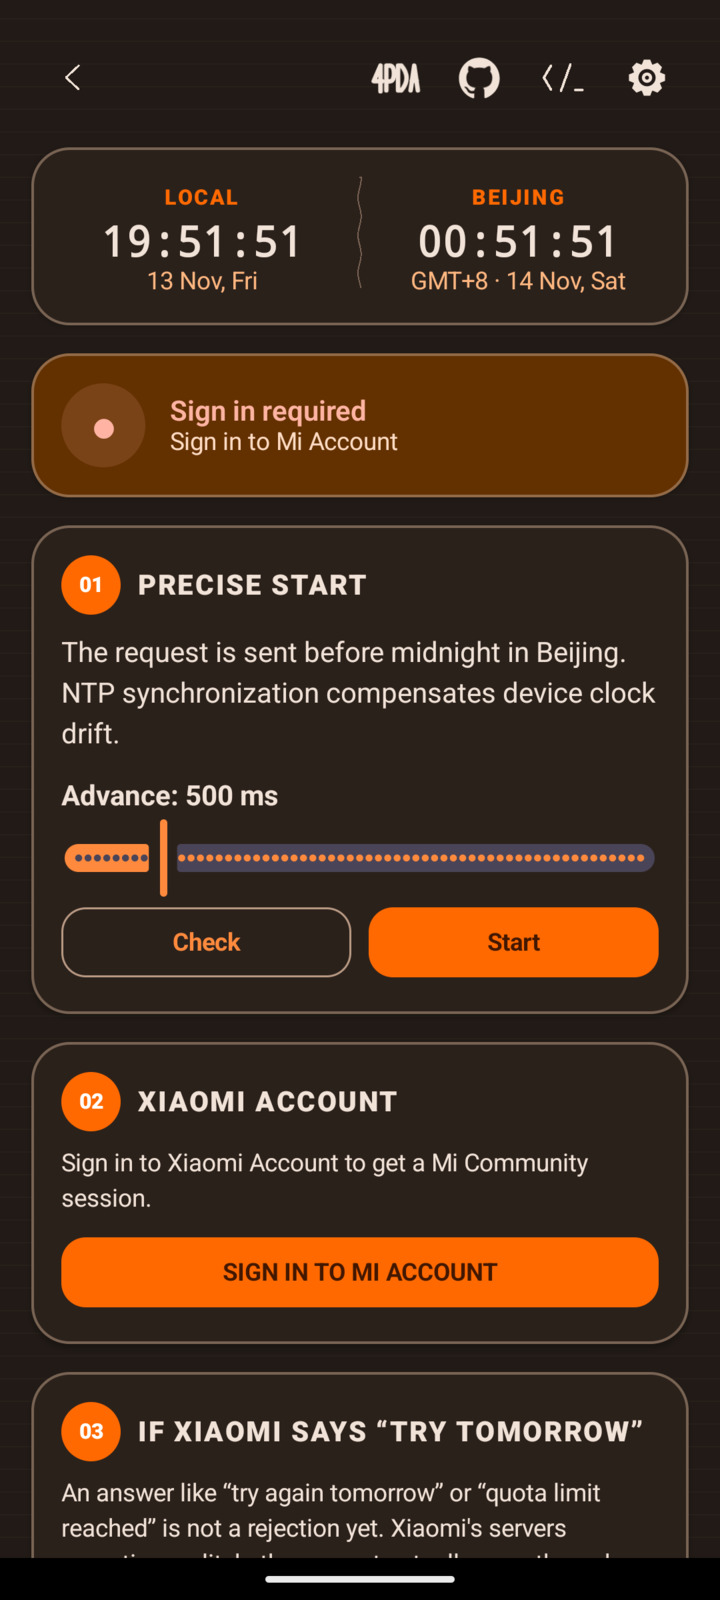
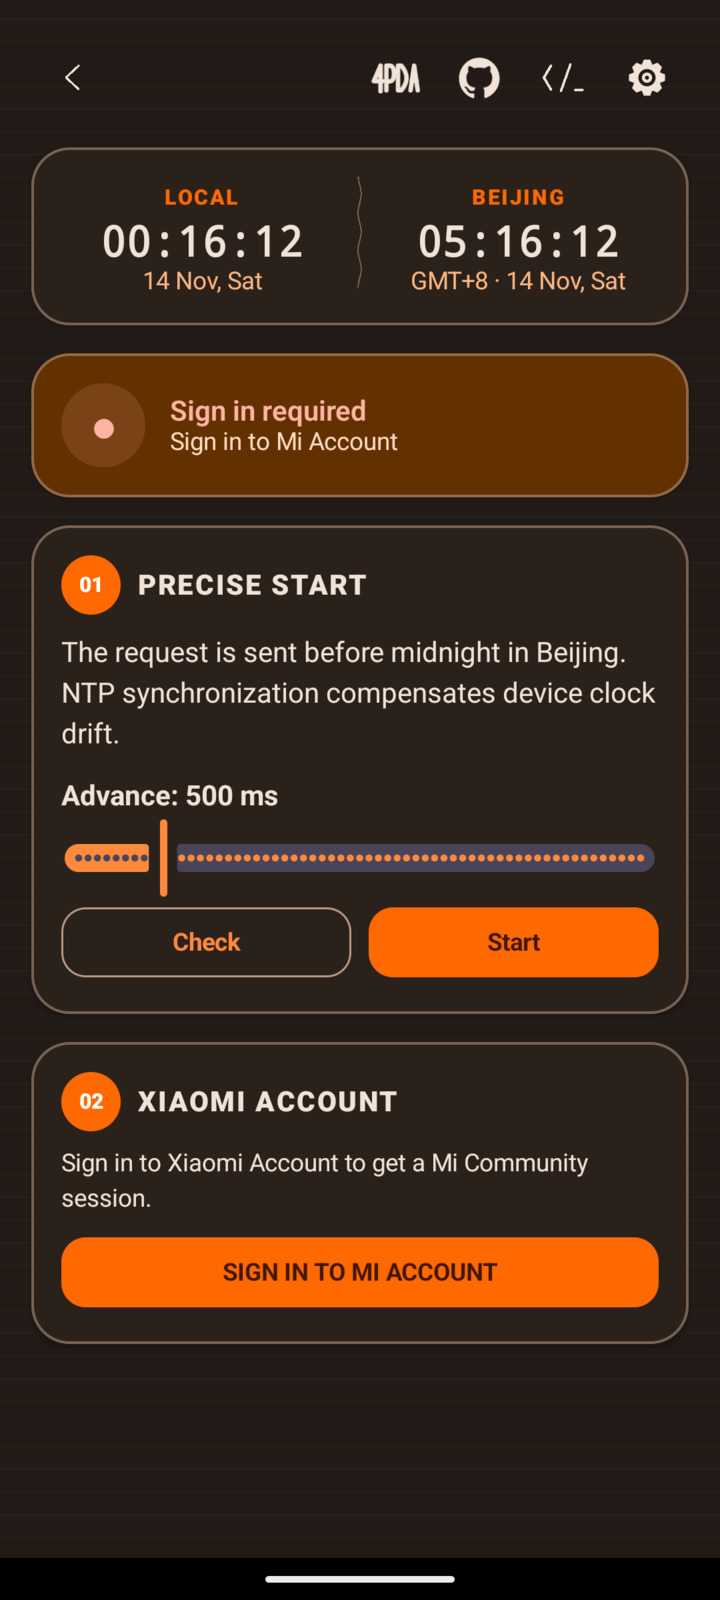
ui: show the 'try tomorrow' note as a dialog with an accept button and a 'do not show again' checkbox instead of a permanent card; versionCode 48

diff --git a/app/src/main/java/com/miunlock/app/ui/ApplyScreen.kt b/app/src/main/java/com/miunlock/app/ui/ApplyScreen.kt
@@ -16,6 +16,9 @@ import androidx.compose.material3.Slider
 import androidx.compose.material3.Button
 import androidx.compose.material3.ButtonDefaults
 import androidx.compose.material3.OutlinedButton
+import androidx.compose.material3.AlertDialog
+import androidx.compose.material3.TextButton
+import androidx.compose.material3.Checkbox
 import androidx.compose.material3.Text
 import androidx.compose.material3.MaterialTheme
 import androidx.compose.foundation.layout.*
@@ -195,9 +198,21 @@ fun MiUnlockScreen(state: AppState, dispatch: (AppIntent) -> Unit, onHome: () ->
                         onLogin = { context.startActivity(Intent(context, MiLoginActivity::class.java).putExtra("language", state.settings.language)) },
                     )
                 }
-                item { LinkingHintCard() }
                 item { Spacer(Modifier.height(24.dp)) }
             }
+        }
+    }
+
+    // Окно про «попробуйте завтра»: показываем один раз на каждый такой ответ,
+    // пока пользователь не отметил «больше не показывать».
+    var retryHintDismissed by rememberSaveable { mutableStateOf(false) }
+    LaunchedEffect(state.snapshot.retryLater) {
+        if (state.snapshot.retryLater) retryHintDismissed = false
+    }
+    if (state.snapshot.retryLater && !state.settings.hideRetryLaterHint && !retryHintDismissed) {
+        RetryLaterDialog { dontShowAgain ->
+            if (dontShowAgain) dispatch(AppIntent.SetHideRetryLaterHint(true))
+            retryHintDismissed = true
         }
     }
 }
@@ -389,36 +404,59 @@ private fun AccountCard(
 }
 
 @Composable
-private fun LinkingHintCard() {
-    SketchCard {
-        SectionTitle("03", tr("ЕСЛИ ОТВЕТ «ПОПРОБУЙТЕ ЗАВТРА»", "IF XIAOMI SAYS “TRY TOMORROW”"))
-        Text(
-            tr(
-                "Ответ «попробуйте завтра» или «квота исчерпана» — ещё не отказ. На серверах " +
-                    "Xiaomi бывает сбой: заявка на самом деле проходит и разрешение выдаётся, " +
-                    "а приложение показывает ошибку. Проверить просто: на телефоне откройте " +
-                    "Настройки → Дополнительные настройки → Для разработчиков → Статус " +
-                    "разблокировки Mi и нажмите «Добавить аккаунт». Если аккаунт привязался — " +
-                    "разрешение у вас есть, можно переходить к разблокировке.",
-                "An answer like “try again tomorrow” or “quota limit reached” is not a rejection " +
-                    "yet. Xiaomi's servers sometimes glitch: the request actually goes through and " +
-                    "permission is granted, while the app still shows an error. To check, open on " +
-                    "the phone Settings → Additional settings → Developer options → Mi Unlock " +
-                    "status and tap “Add account and device”. If the account binds, you have " +
-                    "permission and can proceed to unlock.",
-            ),
-            style = MaterialTheme.typography.bodyMedium,
-        )
-        Spacer(Modifier.height(8.dp))
-        Text(
-            tr(
-                "Привязка возможна только после выдачи разрешения — до одобрения заявки она не пройдёт.",
-                "Binding works only after permission is granted — before the application is approved it will not go through.",
-            ),
-            fontSize = 12.sp,
-            color = MaterialTheme.colorScheme.secondary,
-        )
-    }
+private fun RetryLaterDialog(onAccept: (Boolean) -> Unit) {
+    var dontShowAgain by remember { mutableStateOf(false) }
+    AlertDialog(
+        onDismissRequest = { onAccept(false) },
+        title = { Text(tr("Ответ «попробуйте завтра»", "“Try tomorrow” answer")) },
+        text = {
+            Column {
+                Text(
+                    tr(
+                        "Это ещё не отказ. На серверах Xiaomi бывает сбой: заявка на самом деле " +
+                            "проходит и разрешение выдаётся, а приложение показывает ошибку.",
+                        "This is not a rejection yet. Xiaomi's servers sometimes glitch: the request " +
+                            "actually goes through and permission is granted, while the app shows an error.",
+                    ),
+                    style = MaterialTheme.typography.bodyMedium,
+                )
+                Spacer(Modifier.height(10.dp))
+                Text(
+                    tr(
+                        "Проверьте на телефоне: Настройки → Дополнительные настройки → " +
+                            "Для разработчиков → Статус разблокировки Mi → «Добавить аккаунт». " +
+                            "Если аккаунт привязался — разрешение у вас есть.",
+                        "Check on the phone: Settings → Additional settings → Developer options → " +
+                            "Mi Unlock status → “Add account and device”. If the account binds, " +
+                            "you have permission.",
+                    ),
+                    style = MaterialTheme.typography.bodyMedium,
+                )
+                Spacer(Modifier.height(8.dp))
+                Text(
+                    tr(
+                        "Привязка возможна только после выдачи разрешения.",
+                        "Binding works only after permission is granted.",
+                    ),
+                    fontSize = 12.sp,
+                    color = MaterialTheme.colorScheme.secondary,
+                )
+                Spacer(Modifier.height(6.dp))
+                Row(verticalAlignment = Alignment.CenterVertically) {
+                    Checkbox(checked = dontShowAgain, onCheckedChange = { dontShowAgain = it })
+                    Text(
+                        tr("Больше не показывать", "Do not show again"),
+                        style = MaterialTheme.typography.bodyMedium,
+                    )
+                }
+            }
+        },
+        confirmButton = {
+            TextButton(onClick = { onAccept(dontShowAgain) }) {
+                Text(tr("ПРИНЯТЬ", "ACCEPT"), fontWeight = FontWeight.Black)
+            }
+        },
+    )
 }
 
 @Composable

diff --git a/app/src/main/java/com/miunlock/app/service/UnlockService.kt b/app/src/main/java/com/miunlock/app/service/UnlockService.kt
@@ -187,7 +187,10 @@ class UnlockService : Service() {
             }
         }
         val phase = if (result.successful) RunPhase.SUCCESS else RunPhase.ERROR
-        publish(phase, result.message, target, result.serverTime)
+        // Коды 2 и 3 — «повторите позже»/«лимит»: это не отказ, разрешение
+        // на сервере могло быть выдано, поэтому показываем окно с подсказкой.
+        val retryLater = !result.successful && result.code in RETRY_LATER_CODES
+        publish(phase, result.message, target, result.serverTime, retryLater = retryLater)
         showResult(result.successful, result.message, result)
     }
 
@@ -215,8 +218,9 @@ class UnlockService : Service() {
         target: Instant? = snapshot.value.target,
         serverTime: Instant? = snapshot.value.lastServerTime,
         attempt: Int = snapshot.value.attempt,
+        retryLater: Boolean = false,
     ) {
-        _snapshot.value = ServiceSnapshot(phase, message, target, serverTime, Instant.now(), attempt)
+        _snapshot.value = ServiceSnapshot(phase, message, target, serverTime, Instant.now(), attempt, retryLater)
         val logMessage = if (phase == RunPhase.ERROR) "ошибка выполнения" else message
         DebugLog.add("Сервис: ${phase.name} - $logMessage")
         updateForeground(message)
@@ -419,6 +423,9 @@ class UnlockService : Service() {
         private const val STATUS_NOTIFICATION_ID = 6900
         private const val STATUS_INDICATOR_NOTIFICATION_ID = 6902
         private const val RESULT_NOTIFICATION_ID = 6901
+
+        /** Ответы Xiaomi «повторите позже»: не отказ, разрешение могло быть выдано. */
+        private val RETRY_LATER_CODES = setOf(2, 3)
 
         private val _snapshot = MutableStateFlow(ServiceSnapshot())
         val snapshot = _snapshot.asStateFlow()

diff --git a/app/src/main/java/com/miunlock/app/domain/Models.kt b/app/src/main/java/com/miunlock/app/domain/Models.kt
@@ -33,6 +33,8 @@ data class UserSettings(
     val vibration: Boolean = true,
     val statusNotifications: Boolean = true,
     val language: String = "ru",
+    /** Пользователь нажал «Принять» с галочкой — окно про «попробуйте завтра» больше не показываем. */
+    val hideRetryLaterHint: Boolean = false,
 ) {
     val proxy: ProxySettings
         get() = when (proxyType) {
@@ -50,6 +52,8 @@ data class ServiceSnapshot(
     val lastServerTime: Instant? = null,
     val lastUpdated: Instant = Instant.now(),
     val attempt: Int = 0,
+    /** Xiaomi ответил «попробуйте позже»: это не отказ, разрешение могло быть выдано. */
+    val retryLater: Boolean = false,
 )
 
 data class StateResult(
@@ -78,6 +82,7 @@ sealed interface AppIntent {
     data class SetProxyPassword(val value: String) : AppIntent
     data class SetAutoResume(val value: Boolean) : AppIntent
     data class SetVibration(val value: Boolean) : AppIntent
+    data class SetHideRetryLaterHint(val value: Boolean) : AppIntent
     data class SetStatusNotifications(val value: Boolean) : AppIntent
     data class SetLanguage(val value: String) : AppIntent
     data object Save : AppIntent

diff --git a/app/src/main/java/com/miunlock/app/data/SettingsStore.kt b/app/src/main/java/com/miunlock/app/data/SettingsStore.kt
@@ -36,6 +36,7 @@ class SettingsStore(private val context: Context) {
         val vibration = booleanPreferencesKey("vibration")
         val statusNotifications = booleanPreferencesKey("status_notifications")
         val language = stringPreferencesKey("language")
+        val hideRetryLaterHint = booleanPreferencesKey("hide_retry_later_hint")
         val wasRunning = booleanPreferencesKey("was_running")
     }
 
@@ -69,6 +70,7 @@ class SettingsStore(private val context: Context) {
             vibration = p[Keys.vibration] ?: true,
             statusNotifications = p[Keys.statusNotifications] ?: true,
             language = p[Keys.language] ?: "ru",
+            hideRetryLaterHint = p[Keys.hideRetryLaterHint] ?: false,
         )
     }
 
@@ -90,6 +92,7 @@ class SettingsStore(private val context: Context) {
             p[Keys.vibration] = settings.vibration
             p[Keys.statusNotifications] = settings.statusNotifications
             p[Keys.language] = settings.language
+            p[Keys.hideRetryLaterHint] = settings.hideRetryLaterHint
         }
     }
 

diff --git a/app/src/main/java/com/miunlock/app/MainViewModel.kt b/app/src/main/java/com/miunlock/app/MainViewModel.kt
@@ -54,6 +54,7 @@ class MainViewModel(application: Application) : AndroidViewModel(application) {
             is AppIntent.SetProxyPassword -> updateProxy { copy(password = intent.value) }
             is AppIntent.SetAutoResume -> updateSettings { copy(autoResume = intent.value) }
             is AppIntent.SetVibration -> updateSettings { copy(vibration = intent.value) }
+            is AppIntent.SetHideRetryLaterHint -> updateSettings { copy(hideRetryLaterHint = intent.value) }
             is AppIntent.SetStatusNotifications -> updateSettings { copy(statusNotifications = intent.value) }
             is AppIntent.SetLanguage -> updateSettings { copy(language = intent.value) }
             AppIntent.Save -> saveCredentials()
